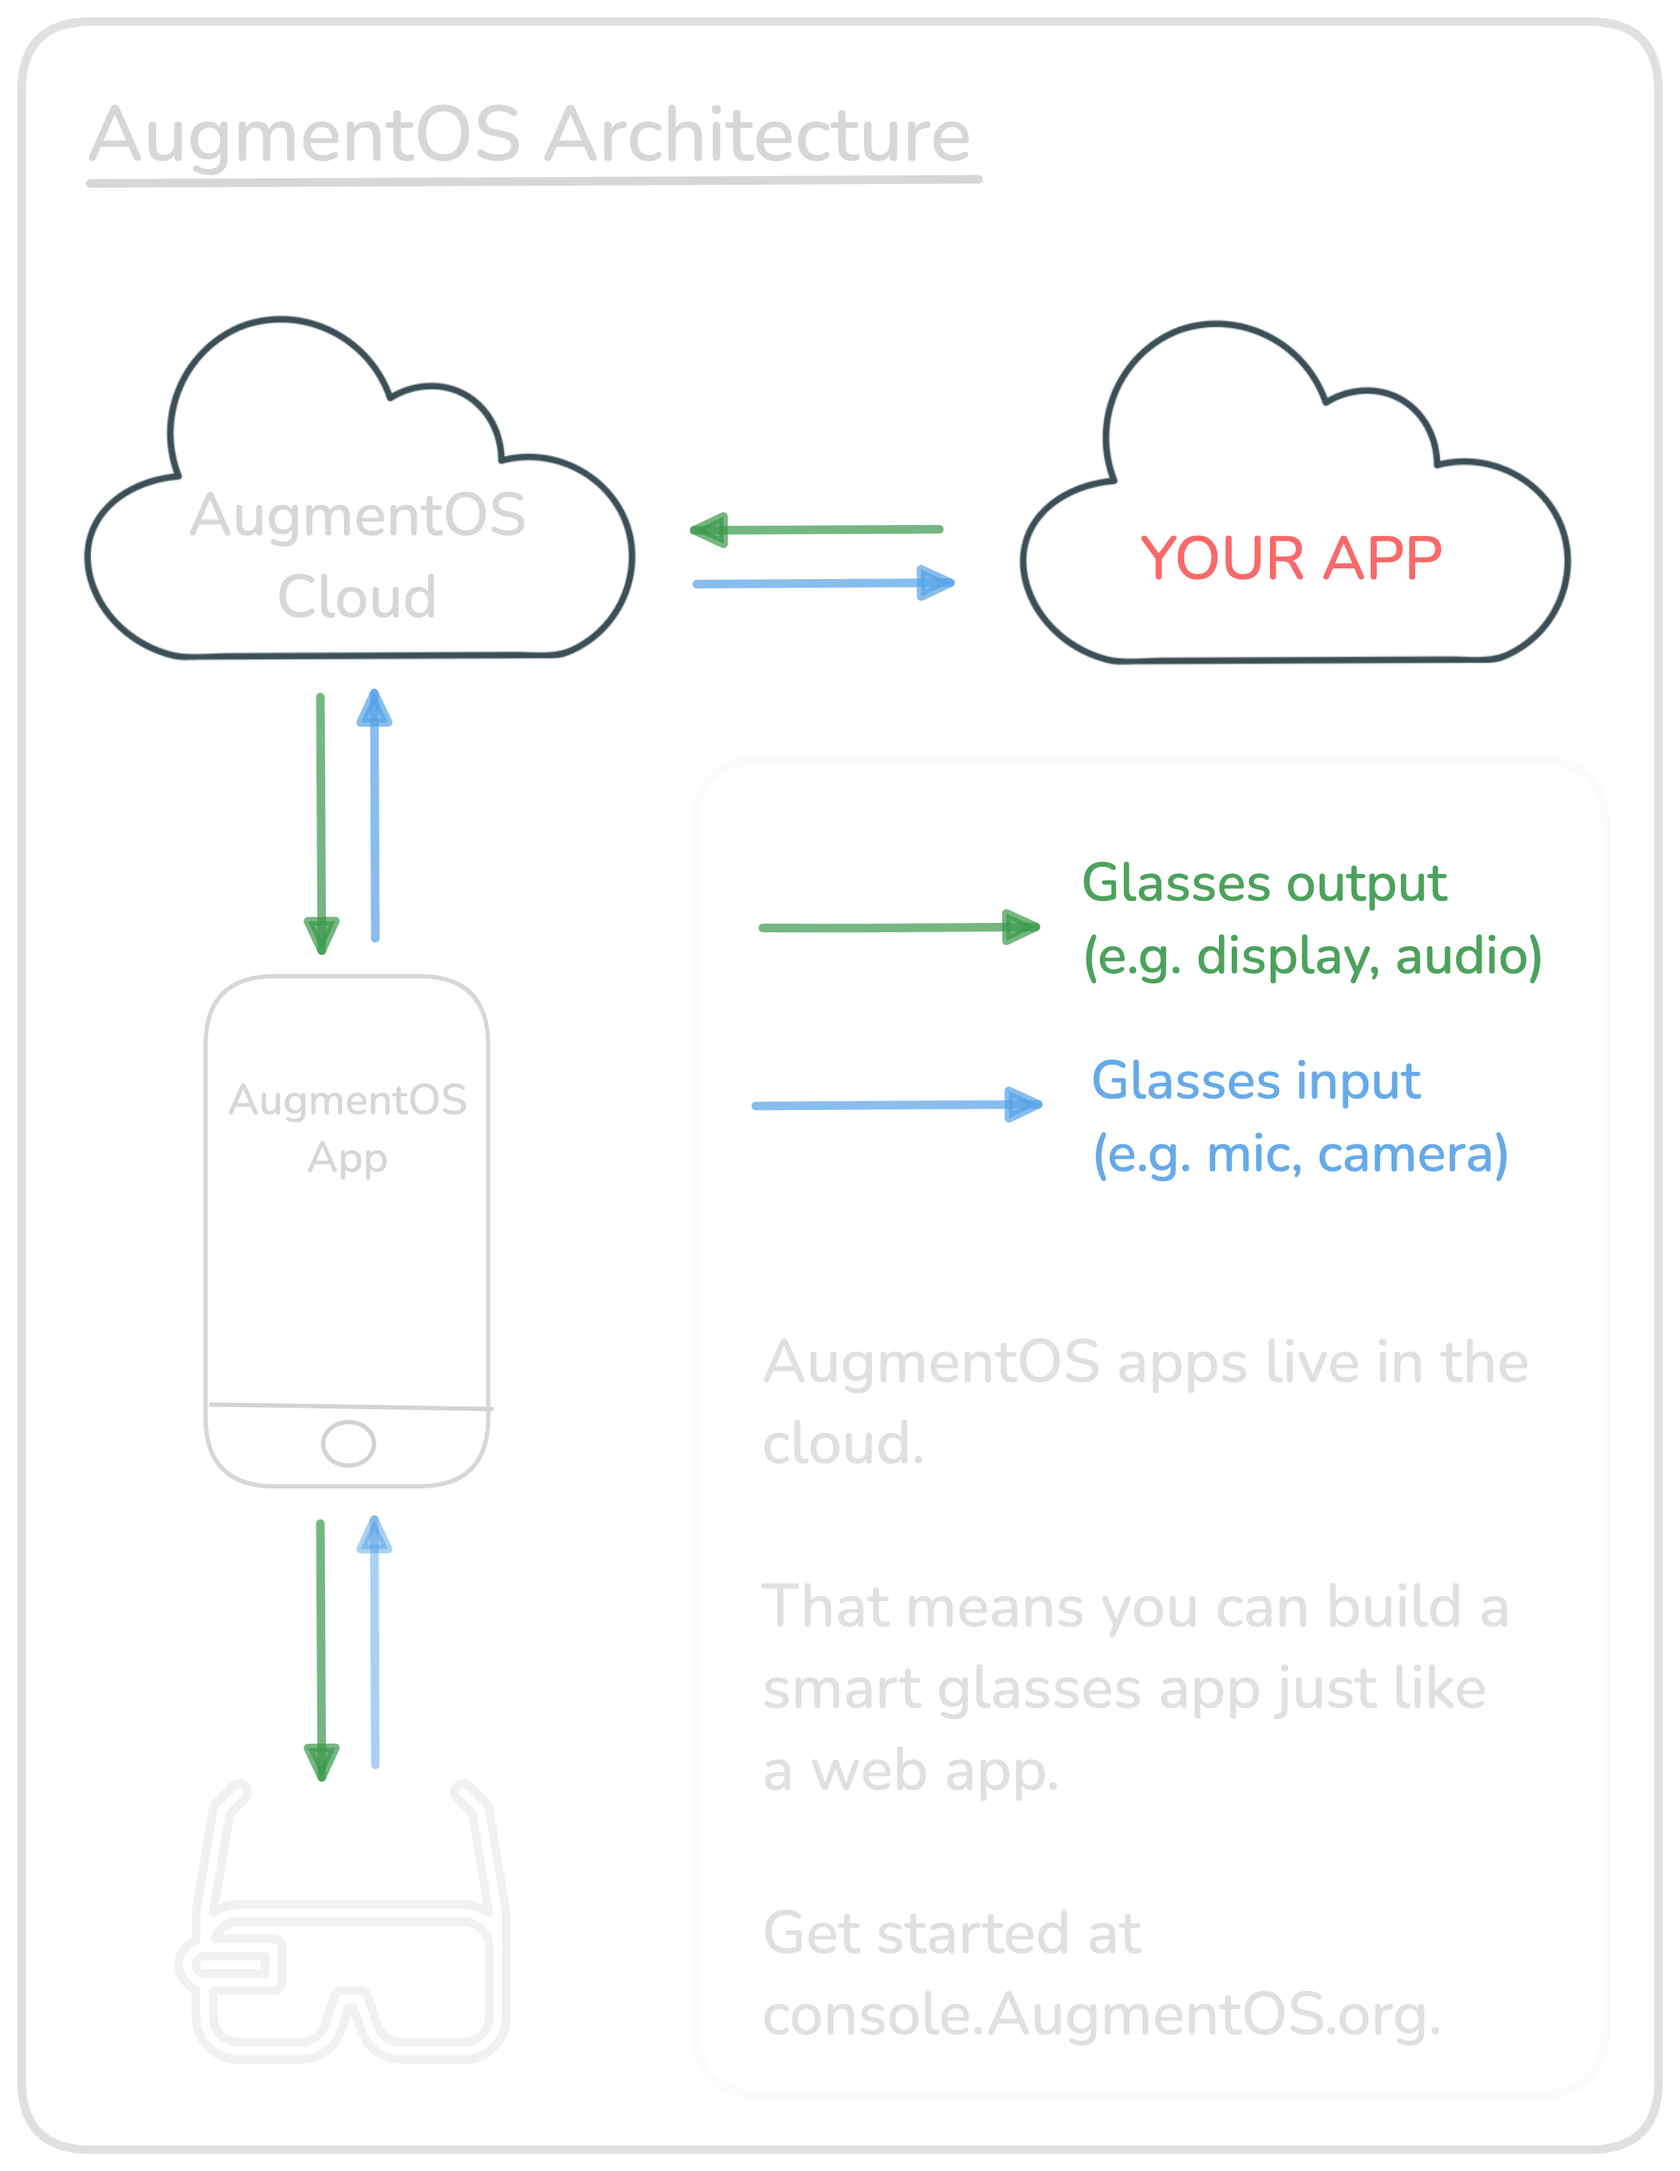
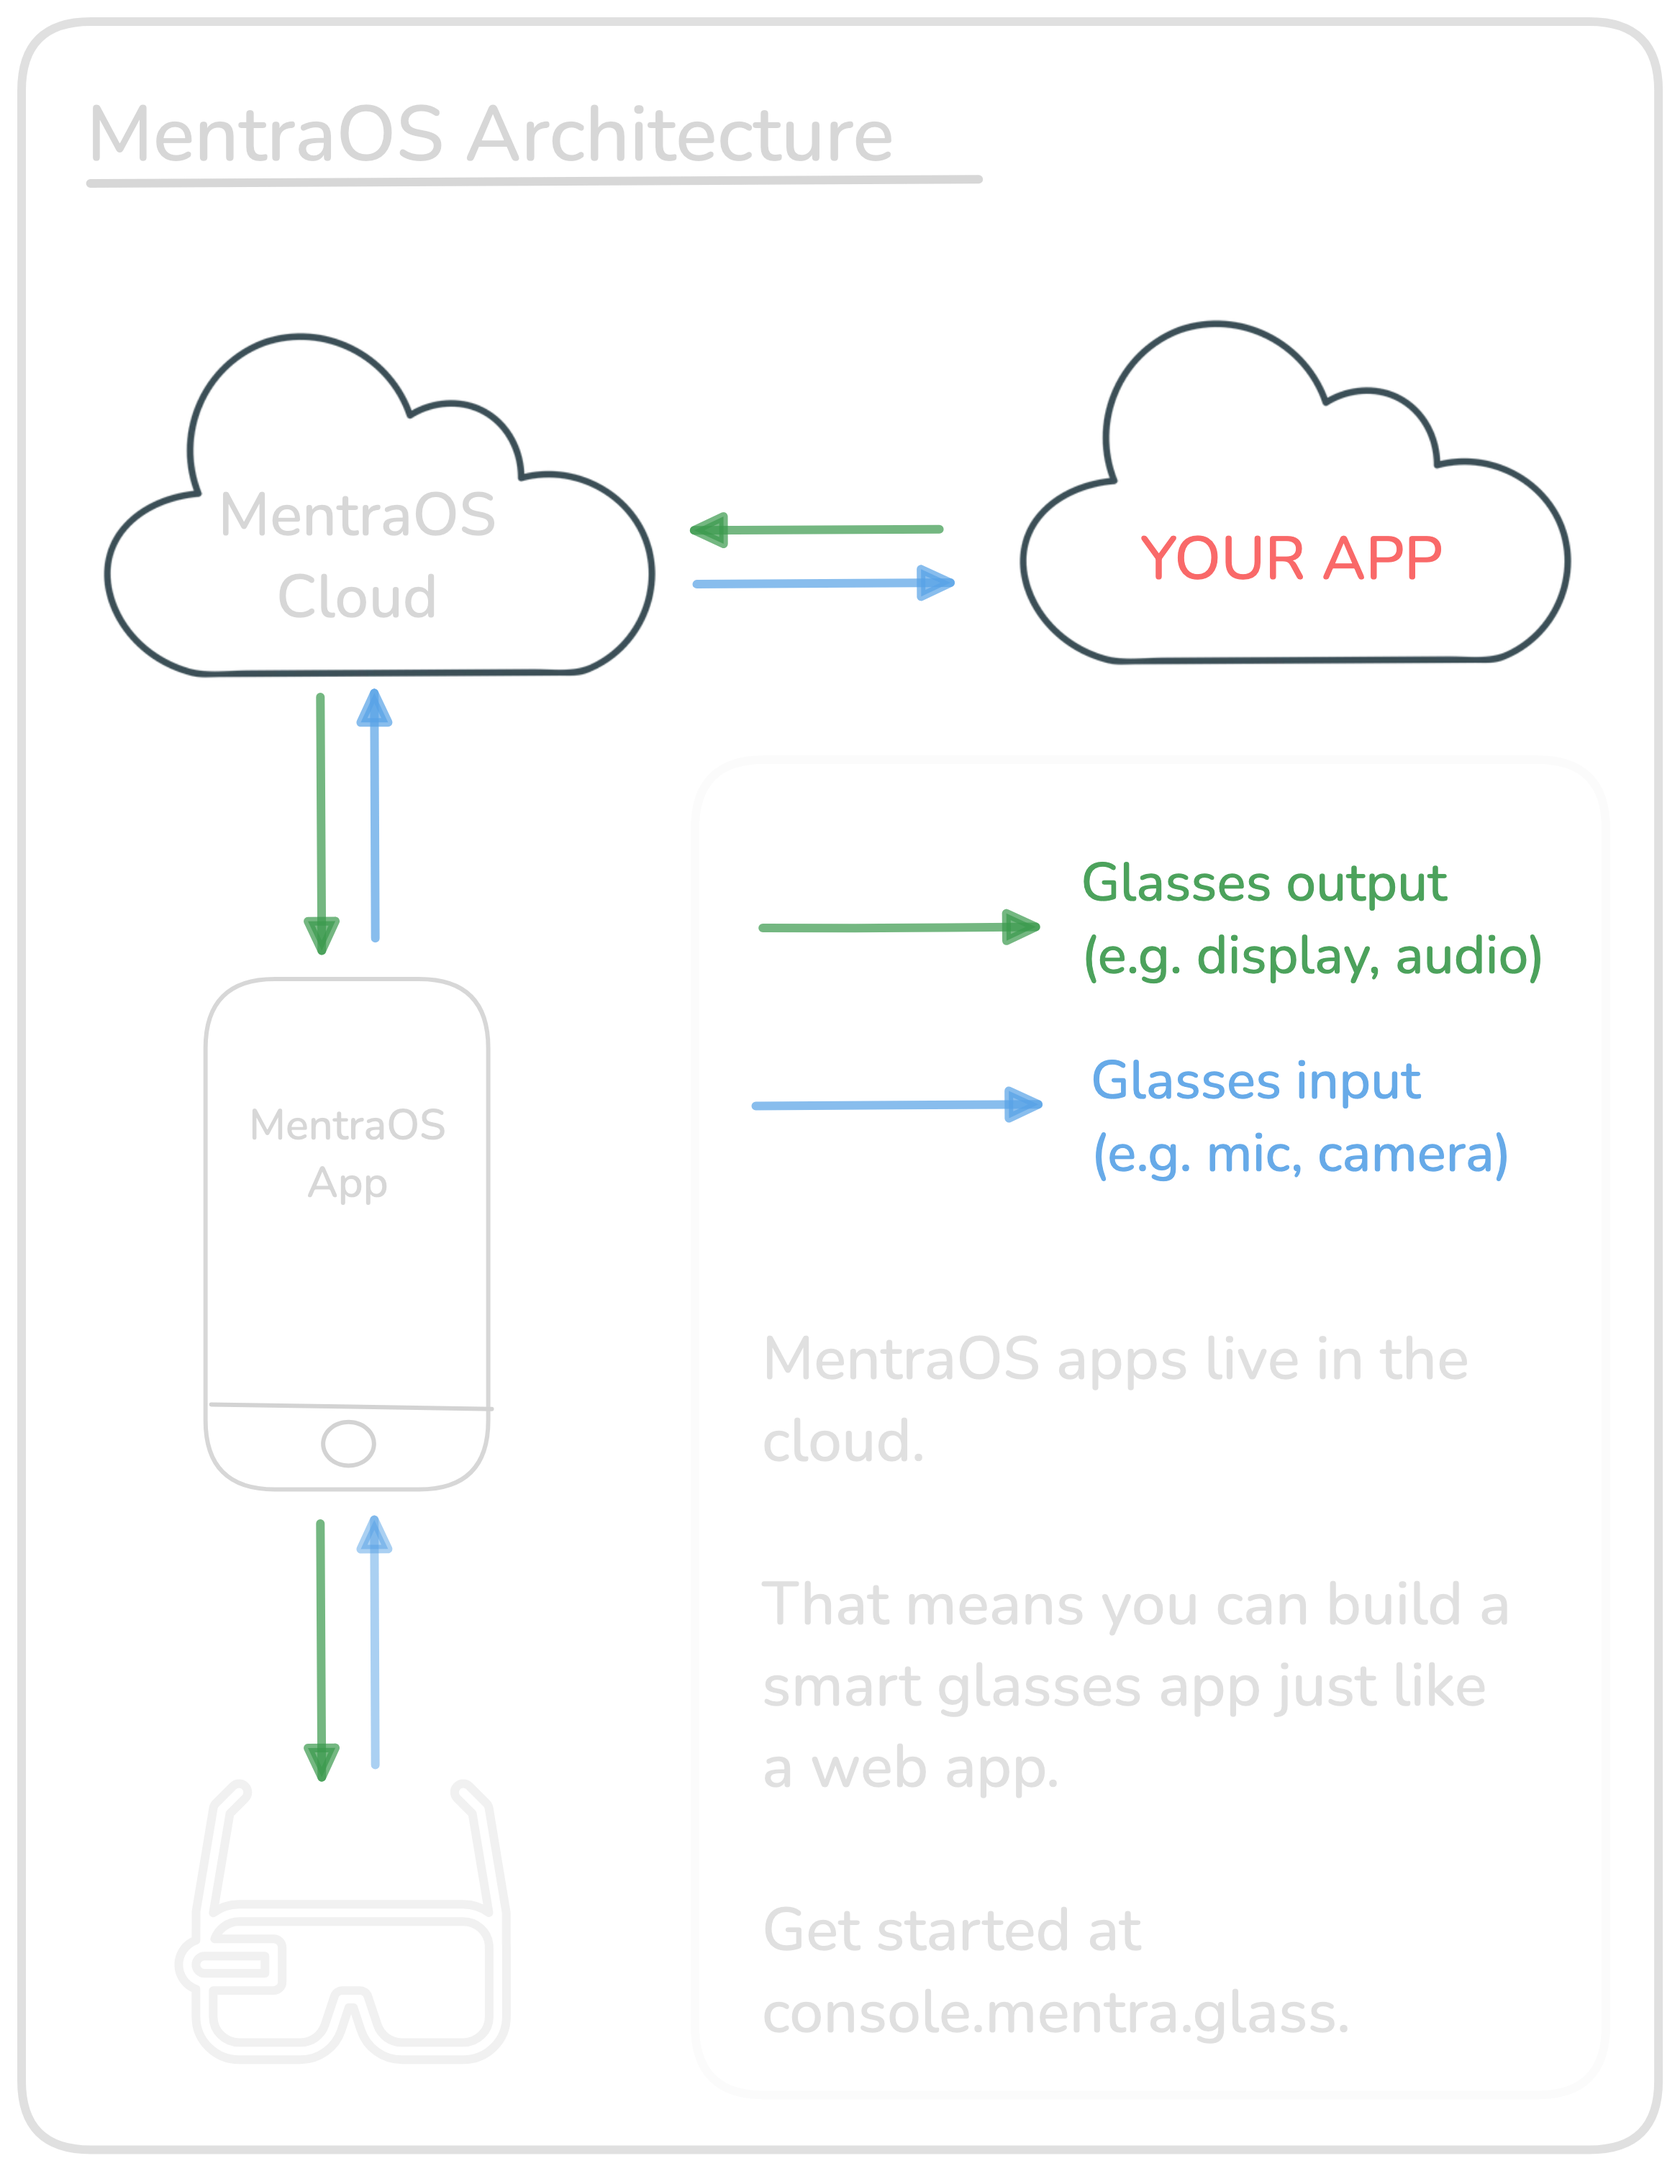
more mentra changes

diff --git a/augmentos_manager/src/contexts/AppStoreWebviewPrefetchProvider.tsx b/augmentos_manager/src/contexts/AppStoreWebviewPrefetchProvider.tsx
@@ -34,7 +34,7 @@ export const AppStoreWebviewPrefetchProvider: React.FC<{children: React.ReactNod
     setWebviewLoading(true)
 
     try {
-      const baseUrl = Constants.expoConfig?.extra?.AUGMENTOS_APPSTORE_URL
+      const baseUrl = Constants.expoConfig?.extra?.MENTRAOS_APPSTORE_URL
       const backendComms = BackendServerComms.getInstance()
 
       // Check if core token exists before trying to generate webview tokens
@@ -74,7 +74,7 @@ export const AppStoreWebviewPrefetchProvider: React.FC<{children: React.ReactNod
     } catch (error) {
       console.error("AppStoreWebviewPrefetchProvider: Error during prefetch:", error)
       // fallback to base URL
-      const baseUrl = Constants.expoConfig?.extra?.AUGMENTOS_APPSTORE_URL
+      const baseUrl = Constants.expoConfig?.extra?.MENTRAOS_APPSTORE_URL
       const urlWithTheme = new URL(baseUrl)
       urlWithTheme.searchParams.append("theme", theme.isDark ? "dark" : "light")
       setAppStoreUrl(urlWithTheme.toString())

diff --git a/augmentos_manager/plugins/android-signing-config.js b/augmentos_manager/plugins/android-signing-config.js
@@ -15,9 +15,9 @@ def hermesEnabled = false  // Set Hermes to false
 /**
  * Release-Store credentials.
  */
-def releaseStorePassword = project.hasProperty("AUGMENTOS_UPLOAD_STORE_PASSWORD") ? project.property("AUGMENTOS_UPLOAD_STORE_PASSWORD") : ""
-def releaseKeyPassword = project.hasProperty("AUGMENTOS_UPLOAD_KEY_PASSWORD") ? project.property("AUGMENTOS_UPLOAD_KEY_PASSWORD") : ""
-def releaseKeyAlias = project.hasProperty("AUGMENTOS_UPLOAD_KEY_ALIAS") ? project.property("AUGMENTOS_UPLOAD_KEY_ALIAS") : "upload"
+def releaseStorePassword = project.hasProperty("MENTRAOS_UPLOAD_STORE_PASSWORD") ? project.property("MENTRAOS_UPLOAD_STORE_PASSWORD") : ""
+def releaseKeyPassword = project.hasProperty("MENTRAOS_UPLOAD_KEY_PASSWORD") ? project.property("MENTRAOS_UPLOAD_KEY_PASSWORD") : ""
+def releaseKeyAlias = project.hasProperty("MENTRAOS_UPLOAD_KEY_ALIAS") ? project.property("MENTRAOS_UPLOAD_KEY_ALIAS") : "upload"
 `
 
       buildGradle = buildGradle.replace(

diff --git a/augmentos_manager/ios/BleManager/AOSManager.swift b/augmentos_manager/ios/BleManager/AOSManager.swift
@@ -1223,7 +1223,7 @@ struct ViewState {
       try? await Task.sleep(nanoseconds: 1_000_000_000) // 3 seconds
       await self.g1Manager?.setSilentMode(false)// turn off silent mode
       await self.g1Manager?.getBatteryStatus()
-      sendText("// BOOTING AUGMENTOS")
+      sendText("// BOOTING MENTRAOS")
       
       // send loaded settings to glasses:
       self.g1Manager?.RN_getBatteryStatus()
@@ -1237,7 +1237,7 @@ struct ViewState {
       // self.g1Manager?.RN_setDashboardPosition(self.dashboardHeight, self.dashboardDepth)
       // try? await Task.sleep(nanoseconds: 400_000_000)
 //      playStartupSequence()
-      sendText("// AUGMENTOS CONNECTED")
+      sendText("// MENTRAOS CONNECTED")
       try? await Task.sleep(nanoseconds: 1_000_000_000) // 1 second
       sendText(" ")// clear screen
       

diff --git a/augmentos_manager/src/backend_comms/BackendServerComms.tsx b/augmentos_manager/src/backend_comms/BackendServerComms.tsx
@@ -28,12 +28,9 @@ export default class BackendServerComms {
       return customUrl
     }
 
-    // const secure = Config.AUGMENTOS_SECURE === 'true';
-    // const host = Config.AUGMENTOS_HOST;
-    // const port = Config.AUGMENTOS_PORT;
-    const secure = true
-    const host = "global.augmentos.cloud"
-    const port = "443"
+    const secure = Config.MENTRAOS_SECURE === 'true';
+    const host = Config.MENTRAOS_HOST;
+    const port = Config.MENTRAOS_PORT;
     const protocol = secure ? "https" : "http"
     const defaultServerUrl = `${protocol}://${host}:${port}`
     console.log(`${this.TAG}: Using default backend URL from env: ${defaultServerUrl}`)

diff --git a/augmentos_manager/ios/BleManager/ServerComms.swift b/augmentos_manager/ios/BleManager/ServerComms.swift
@@ -518,9 +518,9 @@ class ServerComms {
       let wsUrl = "\(secure ? "wss" : "ws")://\(host):\(port)/glasses-ws"
       return wsUrl
     }
-    let host = RNCConfig.env(for: "AUGMENTOS_HOST")!;
-    let port = RNCConfig.env(for: "AUGMENTOS_PORT")!;
-    let secure = RNCConfig.env(for: "AUGMENTOS_SECURE")!
+    let host = RNCConfig.env(for: "MENTRAOS_HOST")!;
+    let port = RNCConfig.env(for: "MENTRAOS_PORT")!;
+    let secure = RNCConfig.env(for: "MENTRAOS_SECURE")!
     let secureServer = secure.contains("true")
     let url = "\(secureServer ? "wss" : "ws")://\(host):\(port)/glasses-ws"
     print("ServerComms: getServerUrl(): \(url)")

diff --git a/augmentos_manager/app.config.ts b/augmentos_manager/app.config.ts
@@ -22,8 +22,8 @@ module.exports = ({config}: ConfigContext): Partial<ExpoConfig> => {
     ...config,
     plugins: [...existingPlugins, require("./plugins/withSplashScreen").withSplashScreen],
     extra: {
-      AUGMENTOS_VERSION: process.env.AUGMENTOS_VERSION,
-      AUGMENTOS_APPSTORE_URL: process.env.AUGMENTOS_APPSTORE_URL,
+      MENTRAOS_VERSION: process.env.MENTRAOS_VERSION,
+      MENTRAOS_APPSTORE_URL: process.env.MENTRAOS_APPSTORE_URL,
     },
   }
 }

diff --git a/augmentos_manager/src/app/tpa/webview.tsx b/augmentos_manager/src/app/tpa/webview.tsx
@@ -61,7 +61,7 @@ export default function AppWebView() {
 
   function determineCloudUrl(): string | undefined {
     const cloudHostName =
-      process.env.CLOUD_PUBLIC_HOST_NAME || process.env.CLOUD_HOST_NAME || process.env.AUGMENTOS_HOST
+      process.env.CLOUD_PUBLIC_HOST_NAME || process.env.CLOUD_HOST_NAME || process.env.MENTRAOS_HOST
     if (
       cloudHostName &&
       cloudHostName.trim() !== "prod.augmentos.cloud" &&

diff --git a/augmentos_manager/src/consts.tsx b/augmentos_manager/src/consts.tsx
@@ -1,5 +1,5 @@
-export const AUGMENTOS_MANAGER_PACKAGE_NAME = "com.mentra.mentra"
-export const AUGMENTOS_CORE_PACKAGE_NAME = "com.augmentos.augmentos_core"
+export const MENTRAOS_MANAGER_PACKAGE_NAME = "com.mentra.mentra"
+export const MENTRAOS_CORE_PACKAGE_NAME = "com.augmentos.augmentos_core"
 
 export const MOCK_CONNECTION: boolean = false
 export const INTENSE_LOGGING: boolean = false

diff --git a/augmentos_docs/docs/index.md b/augmentos_docs/docs/index.md
@@ -6,11 +6,11 @@ slug: /
 
 import AugmentOSArchImage from '@site/src/components/ThemedImage';
 
-# Intro to the AugmentOS SDK Beta
+# Intro to the MentraOS SDK Beta
 
-## What is AugmentOS?
+## What is MentraOS?
 
-AugmentOS is a cloud operating system for smart glasses that handles the hard parts: connections, Bluetooth, streaming, and more. This lets you focus on creating great smart glasses apps.
+MentraOS is a cloud operating system for smart glasses that handles the hard parts: connections, Bluetooth, streaming, and more. This lets you focus on creating great smart glasses apps.
 
 <div style={{maxWidth: '515px', margin: '0 auto'}}>
   <AugmentOSArchImage width="100%" />
@@ -20,7 +20,7 @@ As a Cloud OS, you can write apps in JavaScript/TypeScript (with Python coming s
 
 ## Compatible Hardware
 
-You'll need [compatible smart glasses](https://augmentos.org/glasses/) to build with AugmentOS.
+You'll need [compatible smart glasses](https://mentra.glass/os#glasses) to build with MentraOS.
 
 ## Getting Started
 
@@ -29,11 +29,11 @@ You'll need [compatible smart glasses](https://augmentos.org/glasses/) to build 
 
 ## Deployment
 
-Developers can deploy finished apps to the [AugmentOS Store](https://store.augmentos.org) for users to discover and install.
+Developers can deploy finished apps to the [Mentra Store](https://apps.mentra.glass) for users to discover and install.
 
 ## Resources
 
-- [AugmentOS Website](https://augmentos.org)
+- [Mentra Website](https://mentra.glass)
 - [GitHub Repo](https://github.com/AugmentOS-Community/AugmentOS)
 - [Example App Repo](https://github.com/AugmentOS-Community/AugmentOS-Cloud-Example-App)
 - [Live-Captions Repo](https://github.com/AugmentOS-Community/LiveCaptionsOnSmartGlasses) - A more in-depth example with app settings support
